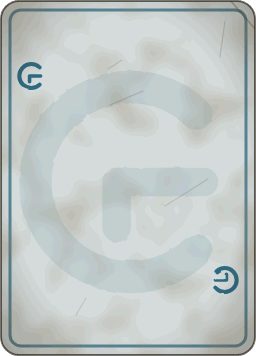
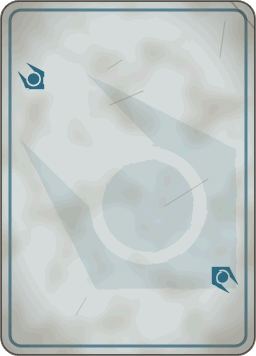
The card table's deck: the Combine suit carries the game's own emblem
The owner: "why not use the actual combine logo from the game?" The made-up mark on suit2.png is
replaced by the Combine's emblem (the two spikes and the eye in its ring), drawn from the picture they sent.

Claude-Session: https://claude.ai/code/session_01Y8SXQkYrUC2vSdmFZKTNua

Changed region(s): [[0.8125, 0.7416, 0.9375, 0.8343], [0.0625, 0.1545, 0.1875, 0.2781]]

diff --git a/_dev/posters/cards.js b/_dev/posters/cards.js
@@ -92,6 +92,7 @@ const INDEX = { 11: 'J', 12: 'Q', 13: 'K', 14: 'A' };
 
 const DEFS = `
   <clipPath id="card"><rect x="1" y="1" width="${W - 2}" height="${H - 2}" rx="18"/></clipPath>
+  <mask id="combine" maskUnits="userSpaceOnUse" x="0" y="0" width="600" height="600"><path d="M185,0 L600,210 L600,595 L210,595 L0,180 L195,372 L375,197 Z" fill="#fff"/><circle cx="356" cy="366" r="163" fill="#000"/></mask>
   <clipPath id="screen"><rect x="-72" y="-92" width="144" height="164" rx="6"/></clipPath>
   <filter id="cut" x="-10%" y="-10%" width="120%" height="120%"><feTurbulence type="fractalNoise" baseFrequency="0.06" numOctaves="2" seed="4"/><feDisplacementMap in="SourceGraphic" scale="3.2"/></filter>
   <filter id="grain" x="0" y="0" width="100%" height="100%"><feTurbulence type="fractalNoise" baseFrequency="0.022" numOctaves="2" seed="SEED"/><feColorMatrix values="0 0 0 0 0.25  0 0 0 0 0.18  0 0 0 0 0.1  0 0 0 0.75 -0.33"/></filter>
@@ -121,7 +122,8 @@ function face(rank) {
 // middle. 1 the Resistance, 2 the Combine, 3 the Union, 4 the vortigaunts. Each mark is drawn around 0,0, about 100 across.
 const SUITS = [
   { paper: '#e6dcc0', col: O, mark: col => f(LAMBDA, col) },
-  { paper: '#d5dcdc', col: '#2c6a82', mark: col => s('M36,-36 A50,50 0 1 0 36,36', 17, col, 'stroke-linecap="butt"') + s('M40,0 L-6,0 L-6,24', 15, col, 'stroke-linecap="butt" stroke-linejoin="miter"') },
+  // (the Combine's own emblem, as in the game: the two spikes and the eye in its ring)
+  { paper: '#d5dcdc', col: '#2c6a82', mark: col => `<g transform="scale(.19) translate(-300,-300)"><rect width="600" height="600" fill="${col}" mask="url(#combine)"/><circle cx="356" cy="366" r="127" fill="${col}"/></g>` },
   { paper: '#e2d9b4', col: '#a87c14', mark: col => `<circle cx="0" cy="0" r="30" fill="none" stroke="${col}" stroke-width="15"/>` +
       [0, 45, 90, 135, 180, 225, 270, 315].map(a => `<rect x="-9" y="-54" width="18" height="20" fill="${col}" transform="rotate(${a})"/>`).join('') + c(0, 0, 8, col) },
   { paper: '#d6dfc2', col: '#4c8527', mark: col => `<path d="M-54,6 Q0,-42 54,6 Q0,50 -54,6 Z" fill="none" stroke="${col}" stroke-width="11" stroke-linejoin="round"/>` + c(0, 6, 17, col) +
